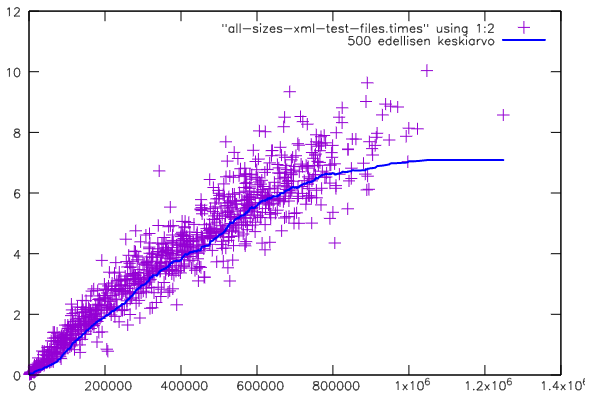
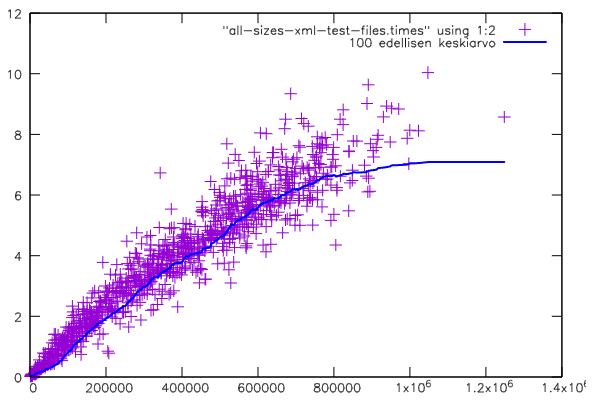
korjattu 500 -> 100

diff --git a/dokumentaatio/raportti.md b/dokumentaatio/raportti.md
@@ -126,7 +126,7 @@ Kuten ylempänä sanotaan:
 
 > Koska algoritmi koostuu kolmesta sisäkkäisestä silmukasta, jotka iteroivat maksimissaan _n_, _k_ ja _n_ arvoa, missä _n_ on tiedoston koko ja _k_ on tutkittavan ympäristön koko, on algoritmin aikavaativuuden yläraja O(n²k). Vastaavasti purkamisen aikavaativuuden yläraja on O(nk).
 
-Suorituskyvyn testaamiseksi mitattiin suoritusaika jokaisen XML-tiedoston pakkaamiselle ja purkamiselle yhteensä. Tulokset on esitetty alla olevassa kuvassa. Kuvan pystyakselilla on suoritusaika sekunneissa ja vaaka-akselilla tiedoston koko tavuissa. Kuvassa on myös pisteisiin sovitettu 500 datapisteen liukuva keskiarvo.
+Suorituskyvyn testaamiseksi mitattiin suoritusaika jokaisen XML-tiedoston pakkaamiselle ja purkamiselle yhteensä. Tulokset on esitetty alla olevassa kuvassa. Kuvan pystyakselilla on suoritusaika sekunneissa ja vaaka-akselilla tiedoston koko tavuissa. Kuvassa on myös pisteisiin sovitettu 100 datapisteen liukuva keskiarvo.
 
 XML-tiedostoista luotiin yhdistelemällä aineisto, jossa oli mukana tasaisesti erikokoisia tiedostoja.
 
